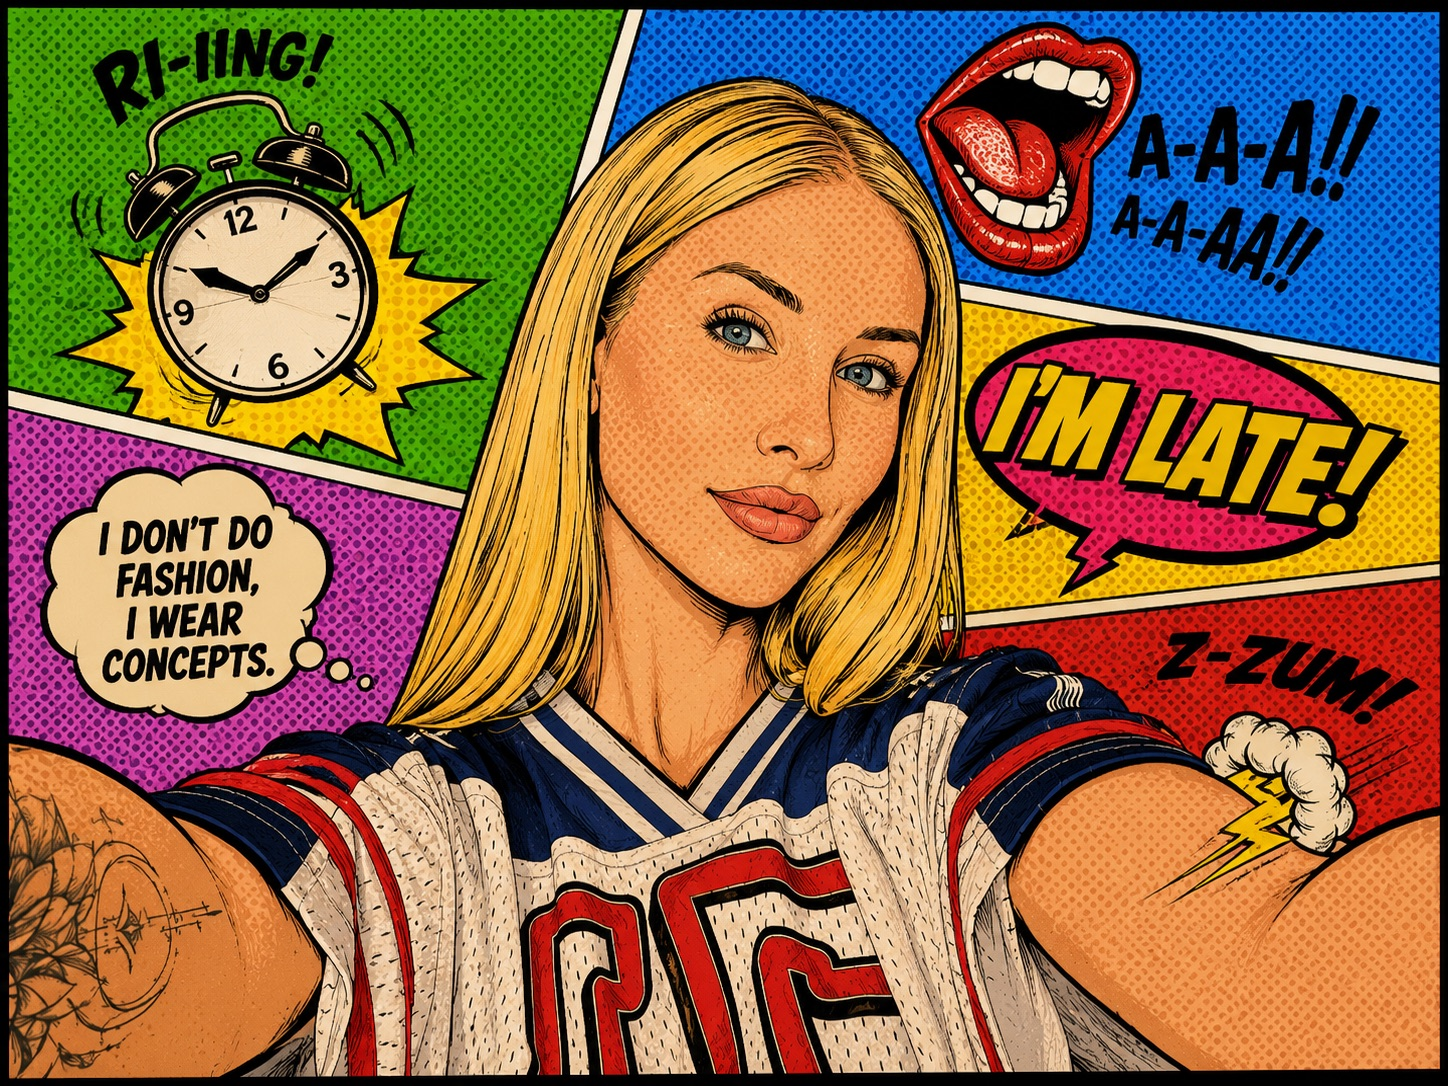
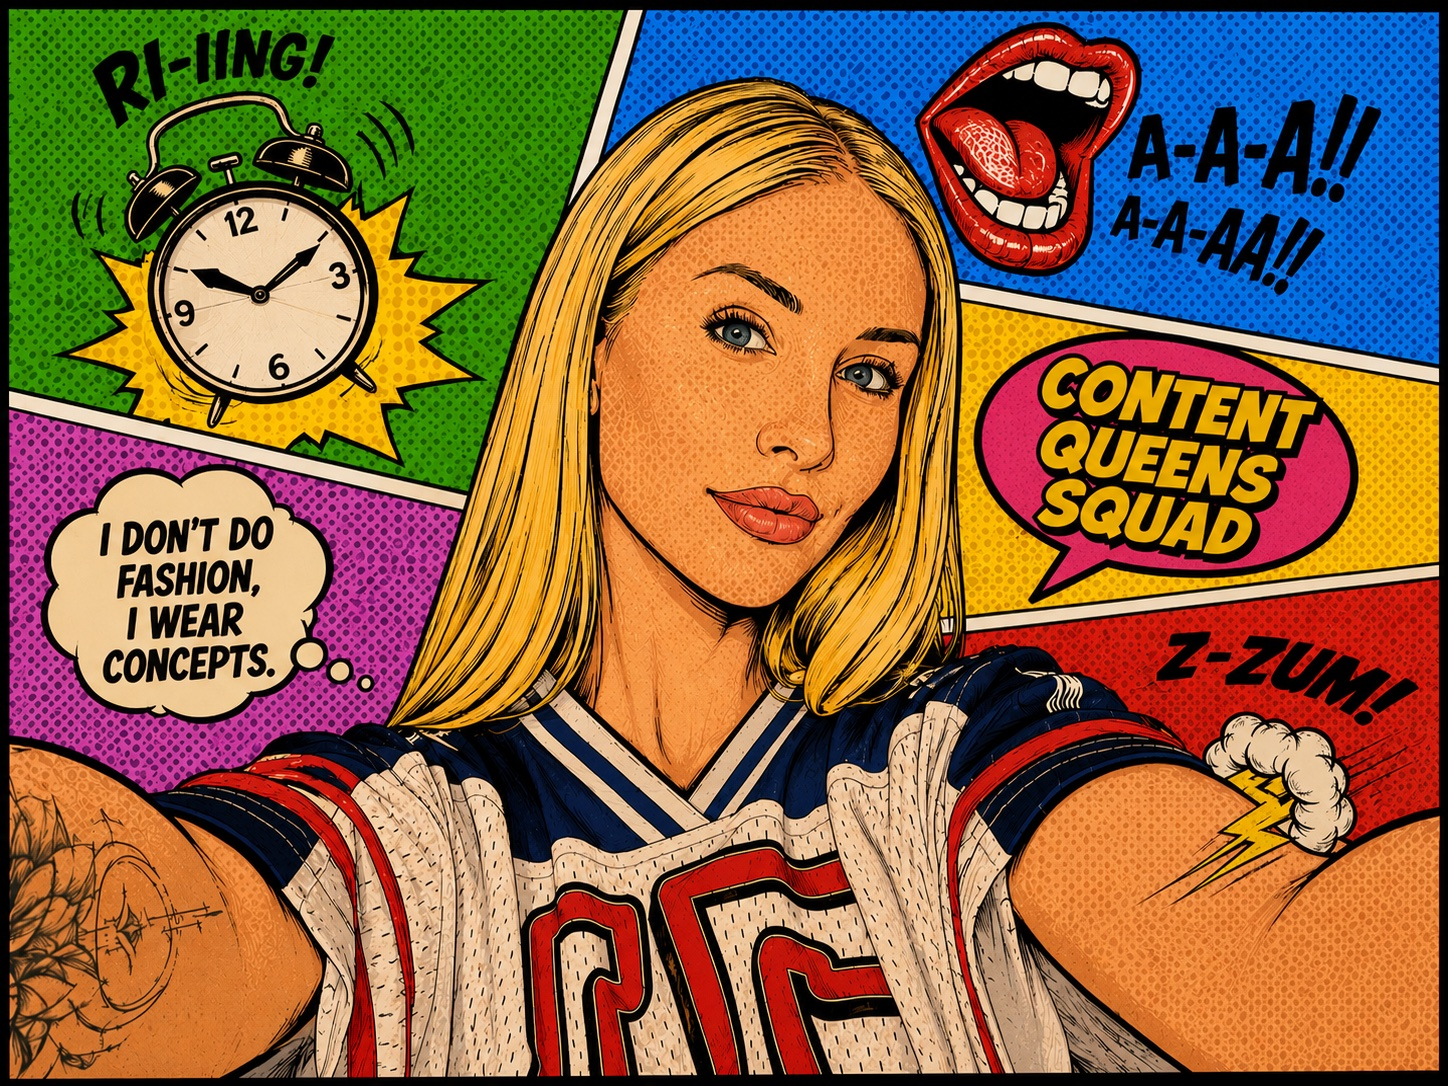
Swap hero to new Content Queens Squad pop-art, retune wash gradient
New artwork has the face centred, so the sky wash now fades out by 60%
instead of 78% and the image anchors at center 22% to keep her eyes in
frame — title contrast on the left is unchanged.

Claude-Session: https://claude.ai/code/session_01XDFzEAuXndzHuPytiv6nwf

Changed region(s): [[0.0, 0.0, 0.9945, 1.0], [0.9634, 0.1823, 0.9945, 0.2735], [0.8702, 0.0304, 0.9012, 0.0608]]

diff --git a/style.css b/style.css
@@ -120,8 +120,8 @@ h1,h2,h3{font-family:'Fraunces',serif;}
   display:flex;align-items:flex-end;
   padding:120px 48px 100px;
   background:
-    linear-gradient(95deg,#58b8ea 0%,var(--sky-deep) 34%,rgba(127,205,243,.9) 52%,rgba(127,205,243,0) 78%),
-    url('images/popart-hero.jpg') right center/cover no-repeat;
+    linear-gradient(95deg,#58b8ea 0%,var(--sky-deep) 26%,rgba(127,205,243,.82) 40%,rgba(127,205,243,0) 60%),
+    url('images/popart-hero.jpg') center 22%/cover no-repeat;
 }
 .hero-blob{position:absolute;border-radius:50%;filter:blur(50px);opacity:.55;pointer-events:none;}
 .hero-blob-a,.hero-blob-c{display:none;}